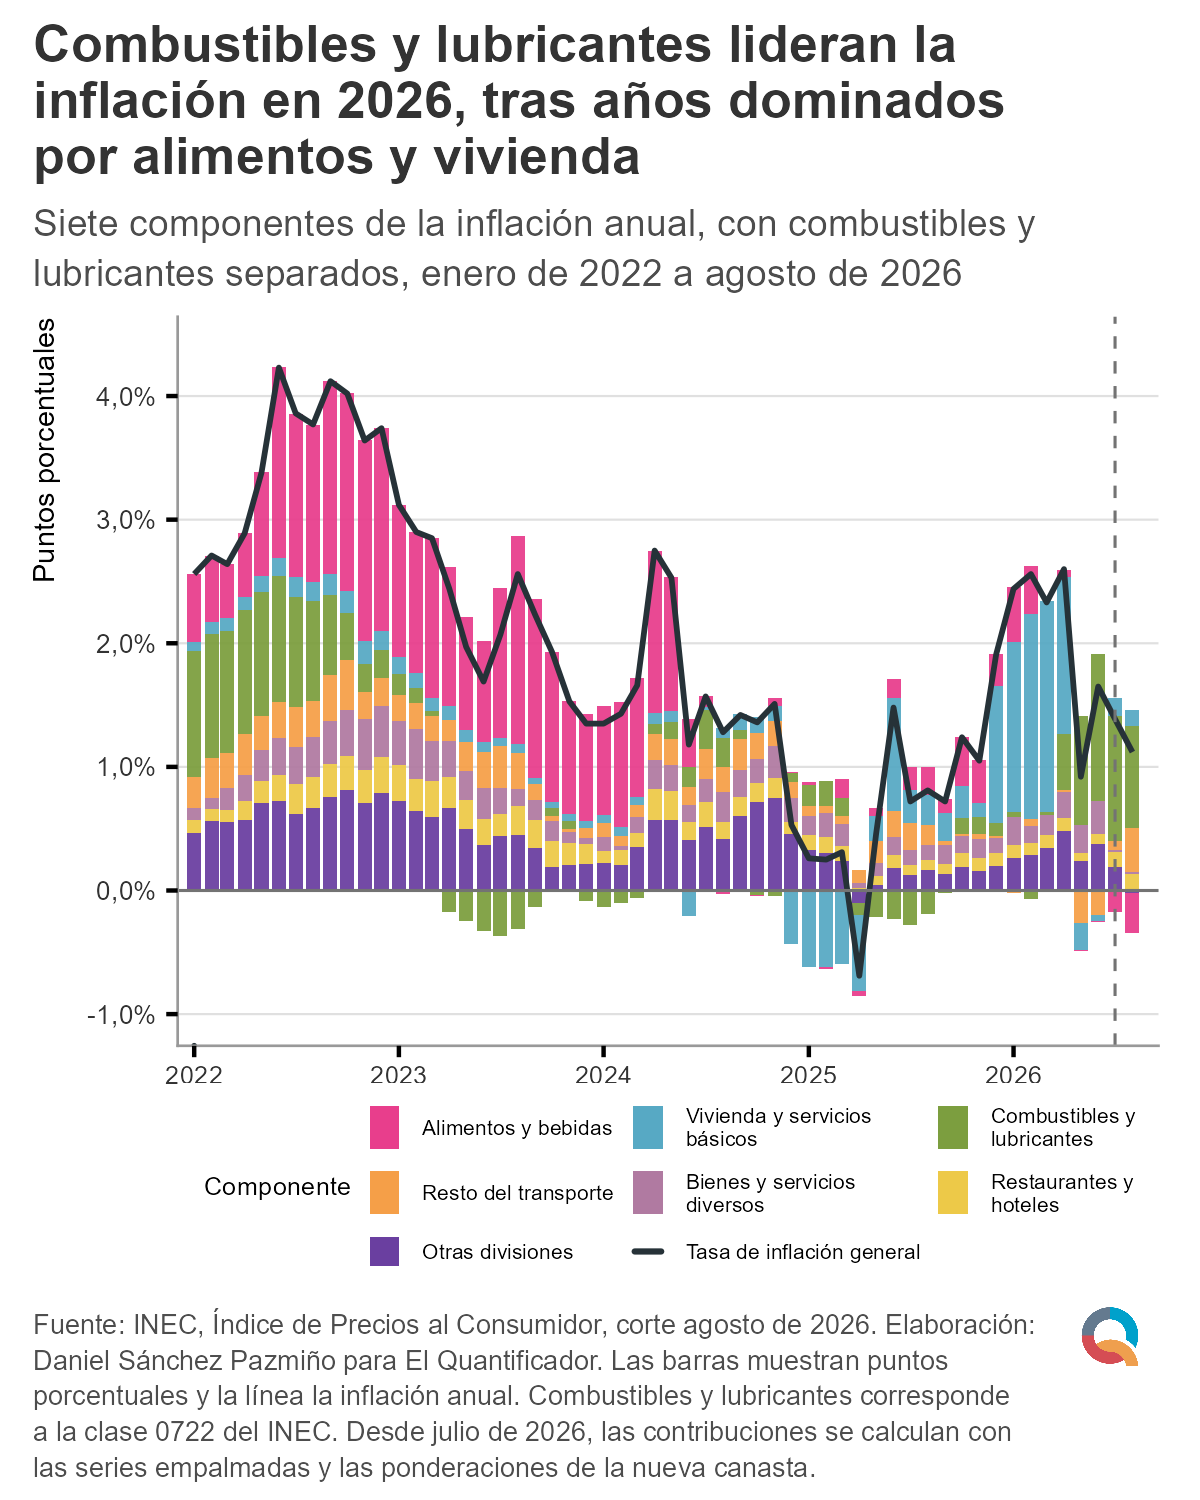
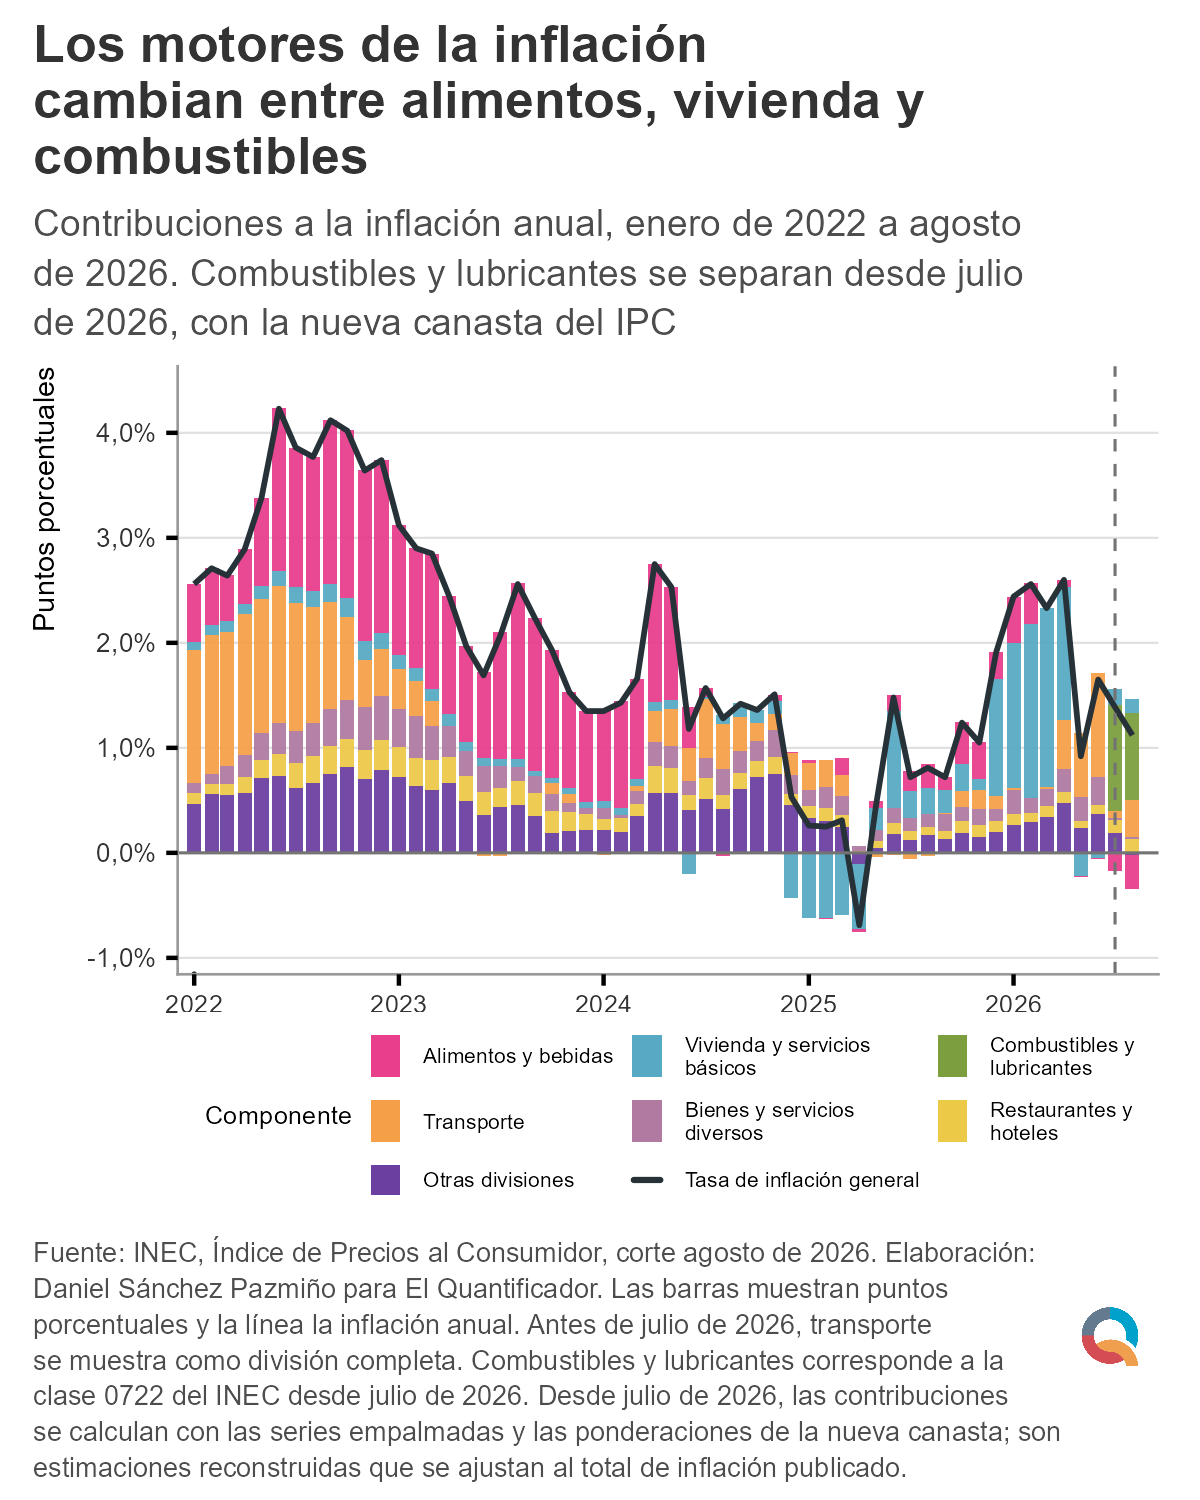
Correct inflation contribution breakdown

diff --git a/data/sources/ipc_inflacion_contribuciones.md b/data/sources/ipc_inflacion_contribuciones.md
@@ -4,7 +4,7 @@
 
 Instituto Nacional de Estadística y Censos (INEC), Índice de Precios al Consumidor (IPC), corte de agosto de 2026.
 
-Los insumos están en `data/raw/ipc_inec_2026_08/`: los tabulados de agosto y las series empalmadas publicadas con el cambio de base de julio de 2026.
+Los insumos son `data/raw/ipc_inec_2026_06/Series Incidencias.zip`, con las incidencias oficiales hasta junio de 2026, y los tabulados y series empalmadas de `data/raw/ipc_inec_2026_08/`.
 
 La fuente oficial es <https://www.ecuadorencifras.gob.ec/indice-de-precios-al-consumidor-2026/>.
 
@@ -12,9 +12,9 @@ La fuente oficial es <https://www.ecuadorencifras.gob.ec/indice-de-precios-al-co
 
 El gráfico cubre enero de 2022 a agosto de 2026. Se muestran las divisiones 01, 04, 07, 11 y 12, y se agrupan las demás en `Otras divisiones`.
 
-`Combustibles y lubricantes` corresponde a la clase 0722 del INEC. `Resto del transporte` es la contribución de transporte menos esa clase.
+Hasta junio de 2026, transporte se muestra como división completa. `Combustibles y lubricantes` corresponde a la clase 0722 del INEC y se desagrega únicamente desde julio de 2026, cuando entra la nueva canasta.
 
-Desde julio de 2026 el INEC usa una nueva base, canasta y clasificación. El script combina las series empalmadas con los tabulados de agosto. Las contribuciones se calculan a partir de los índices y ponderaciones vigentes y se normalizan al total de inflación anual publicado, de modo que las barras reconcilien con la línea sin agregar una categoría residual.
+Desde julio de 2026 el INEC usa una nueva base, canasta y clasificación. El script combina las series empalmadas con los tabulados de agosto. Las contribuciones posteriores se calculan a partir de los índices y ponderaciones vigentes y se normalizan al total de inflación anual publicado. Son estimaciones reconstruidas, no incidencias anuales publicadas directamente por el INEC.
 
 ## Reproducción
 
